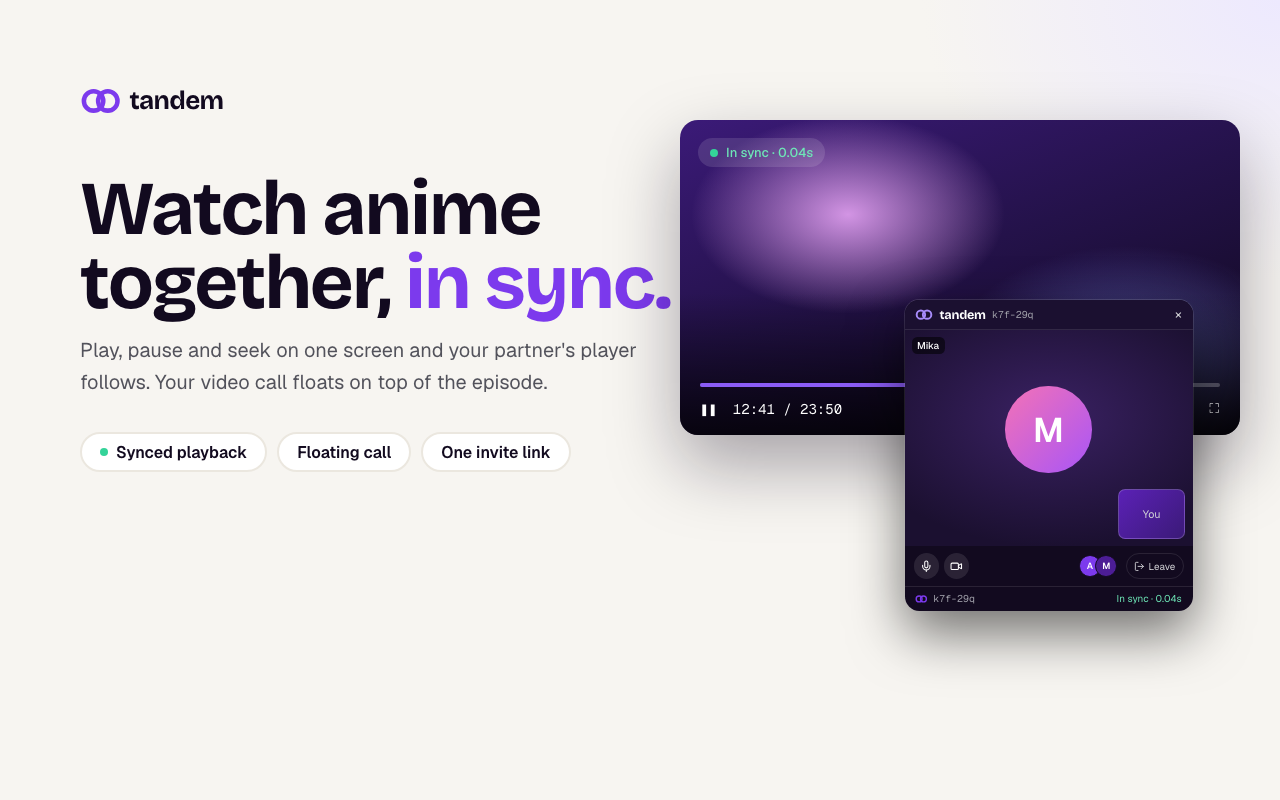
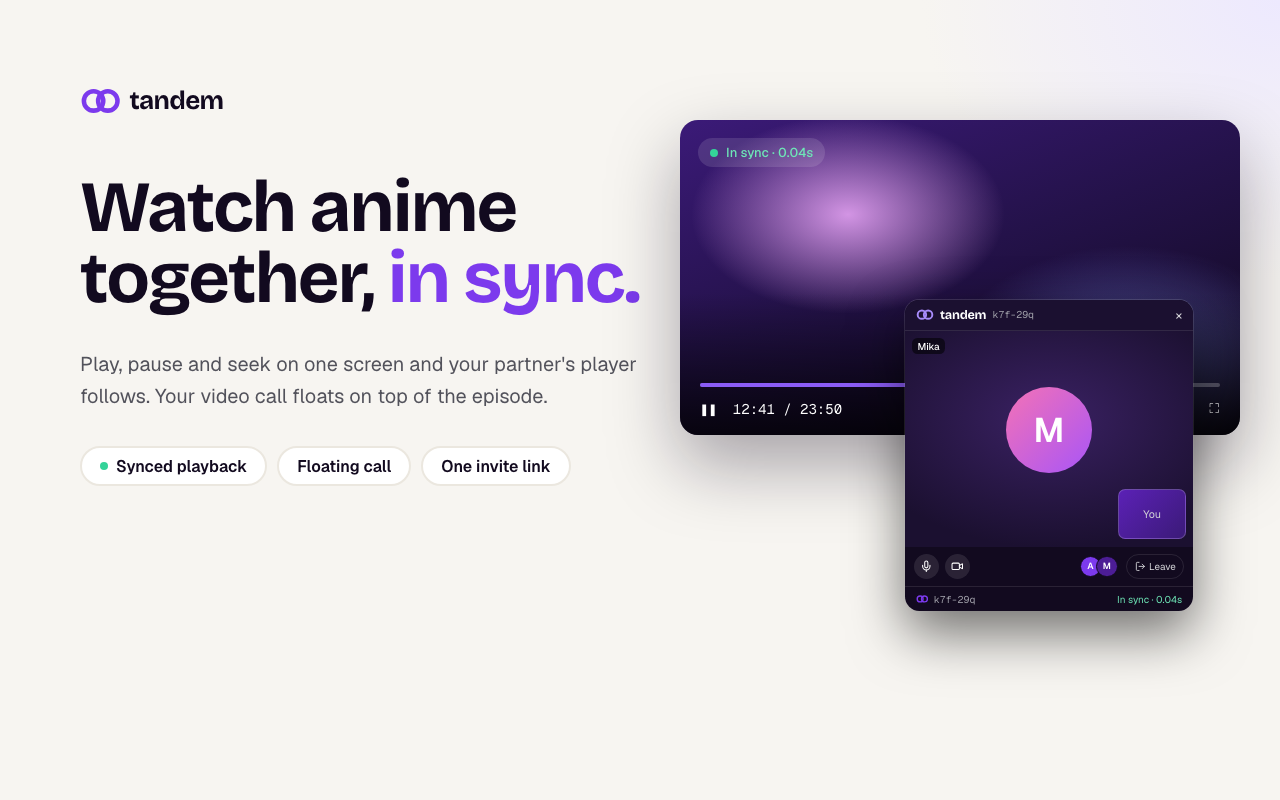
feat: update store listing images and enhance marquee promo layout for better presentation

diff --git a/scripts/store-listing/screenshot-1.html b/scripts/store-listing/screenshot-1.html
@@ -1,10 +1,10 @@
 <!doctype html><html lang="en"><head><meta charset="utf-8"><link rel="stylesheet" href="shared.css"></head>
 <body class="light" style="width:1280px;height:800px;background:radial-gradient(40% 50% at 100% 0%,#ede9fe,transparent 70%),var(--cream)">
   <span class="abs" data-logo="36" style="left:80px;top:88px"></span>
-  <h1 class="abs" style="left:80px;top:172px;font-size:76px">Watch anime<br>together, <span style="color:var(--brand-600)">in sync.</span></h1>
-  <p class="abs lead" style="left:80px;top:334px;width:580px;font-size:20px;color:#52525b">Play, pause and seek on one screen and your partner's player follows. Your video call floats on top of the episode.</p>
-  <div class="abs chips" style="left:80px;top:432px"><span class="chip"><span class="dot"></span>Synced playback</span><span class="chip">Floating call</span><span class="chip">One invite link</span></div>
+  <h1 class="abs" style="left:80px;top:172px;font-size:72px">Watch anime<br>together, <span style="color:var(--brand-600)">in sync.</span></h1>
+  <p class="abs lead" style="left:80px;top:348px;width:560px;font-size:20px;color:#52525b">Play, pause and seek on one screen and your partner's player follows. Your video call floats on top of the episode.</p>
+  <div class="abs chips" style="left:80px;top:446px"><span class="chip"><span class="dot"></span>Synced playback</span><span class="chip">Floating call</span><span class="chip">One invite link</span></div>
   <div class="abs" data-video="pill" style="left:680px;top:120px;width:560px;height:315px"></div>
-  <div class="abs" data-panel="0.9" style="left:1005px;top:333px"></div>
+  <div class="abs" data-panel="0.9" style="left:905px;top:300px"></div>
   <script src="shared.js"></script>
 </body></html>

diff --git a/scripts/store-listing/marquee-promo.html b/scripts/store-listing/marquee-promo.html
@@ -1,8 +1,8 @@
 <!doctype html><html lang="en"><head><meta charset="utf-8"><link rel="stylesheet" href="shared.css"></head>
 <body class="dark" style="width:1400px;height:560px;background:radial-gradient(45% 70% at 85% 0%,#3b1a78,transparent 70%),var(--ink)">
   <span class="abs" data-logo="40" data-tone="light" style="left:90px;top:96px"></span>
-  <h1 class="abs" style="left:90px;top:176px;font-size:74px">Watch anime together,<br><span style="color:var(--brand-400)">in perfect sync.</span></h1>
-  <p class="abs lead" style="left:90px;top:326px;font-size:21px;color:#d4d4d8">Synced play, pause and seek, with your video call floating on top.</p>
+  <h1 class="abs" style="left:90px;top:180px;font-size:62px">Watch anime together,<br><span style="color:var(--brand-400)">in perfect sync.</span></h1>
+  <p class="abs lead" style="left:90px;top:326px;width:640px;font-size:21px;color:#d4d4d8">Synced play, pause and seek, with your video call floating on top.</p>
   <div class="abs" data-video="" style="left:820px;top:96px;width:500px;height:282px"></div>
   <div class="abs" data-panel="0.68" style="left:1105px;top:210px"></div>
   <script src="shared.js"></script>

diff --git a/scripts/store-listing/shared.js b/scripts/store-listing/shared.js
@@ -17,9 +17,7 @@ for (const el of document.querySelectorAll("[data-logo]")) {
 }
 
 for (const el of document.querySelectorAll("[data-panel]")) {
-  el.classList.add("panel");
-  el.style.zoom = el.dataset.panel;
-  el.innerHTML = `
+  el.innerHTML = `<div class="panel" style="zoom:${el.dataset.panel}">
     <div class="bar"><span>${ring(20, "#a78bfa")}<b>tandem</b><code>k7f-29q</code></span><span class="x">×</span></div>
     <div class="stage"><span class="name">Mika</span><div class="avatar">M</div><div class="you">You</div></div>
     <div class="controls">
@@ -27,7 +25,7 @@ for (const el of document.querySelectorAll("[data-panel]")) {
       <div class="members"><span>A</span><span>M</span></div>
       <span class="leave">${svg("out")} Leave</span>
     </div>
-    <div class="foot"><span>${ring(14, "#7c3aed")} k7f-29q</span><span class="ok">In sync · 0.04s</span></div>`;
+    <div class="foot"><span>${ring(14, "#7c3aed")} k7f-29q</span><span class="ok">In sync · 0.04s</span></div></div>`;
 }
 
 for (const el of document.querySelectorAll("[data-video]")) {

diff --git a/scripts/store-listing/screenshot-3.html b/scripts/store-listing/screenshot-3.html
@@ -7,6 +7,6 @@
     <li>Your partner opens it and joins the same room, on the same second.</li>
   </ol>
   <span class="abs btn3d" style="left:80px;top:466px">+ Create a room</span>
-  <iframe class="abs popup" src="popup-idle.html" style="left:690px;top:100px;width:300px;height:212px;zoom:1.3"></iframe>
-  <iframe class="abs popup" src="popup-active.html" style="left:820px;top:420px;width:300px;height:244px;zoom:1.3"></iframe>
+  <div class="abs" style="left:690px;top:100px"><iframe class="popup" src="popup-idle.html" style="width:300px;height:222px;zoom:1.3"></iframe></div>
+  <div class="abs" style="left:820px;top:420px"><iframe class="popup" src="popup-active.html" style="width:300px;height:250px;zoom:1.3"></iframe></div>
 </body></html>

diff --git a/scripts/store-listing/screenshot-2.html b/scripts/store-listing/screenshot-2.html
@@ -1,5 +1,6 @@
 <!doctype html><html lang="en"><head><meta charset="utf-8"><link rel="stylesheet" href="shared.css"></head>
-<body class="dark glow" style="width:1280px;height:800px">
+<body class="dark" style="width:1280px;height:800px">
+  <div class="abs glow" style="inset:0"></div>
   <div class="abs" style="inset:0;background:linear-gradient(90deg,rgba(13,7,22,.55),transparent 60%),linear-gradient(transparent 75%,rgba(0,0,0,.7))"></div>
   <span class="abs" data-logo="34" data-tone="light" style="left:64px;top:60px"></span>
   <h1 class="abs" style="left:64px;top:130px;font-size:62px">Your call stays on top,<br><span style="color:var(--brand-400)">even in fullscreen.</span></h1>
